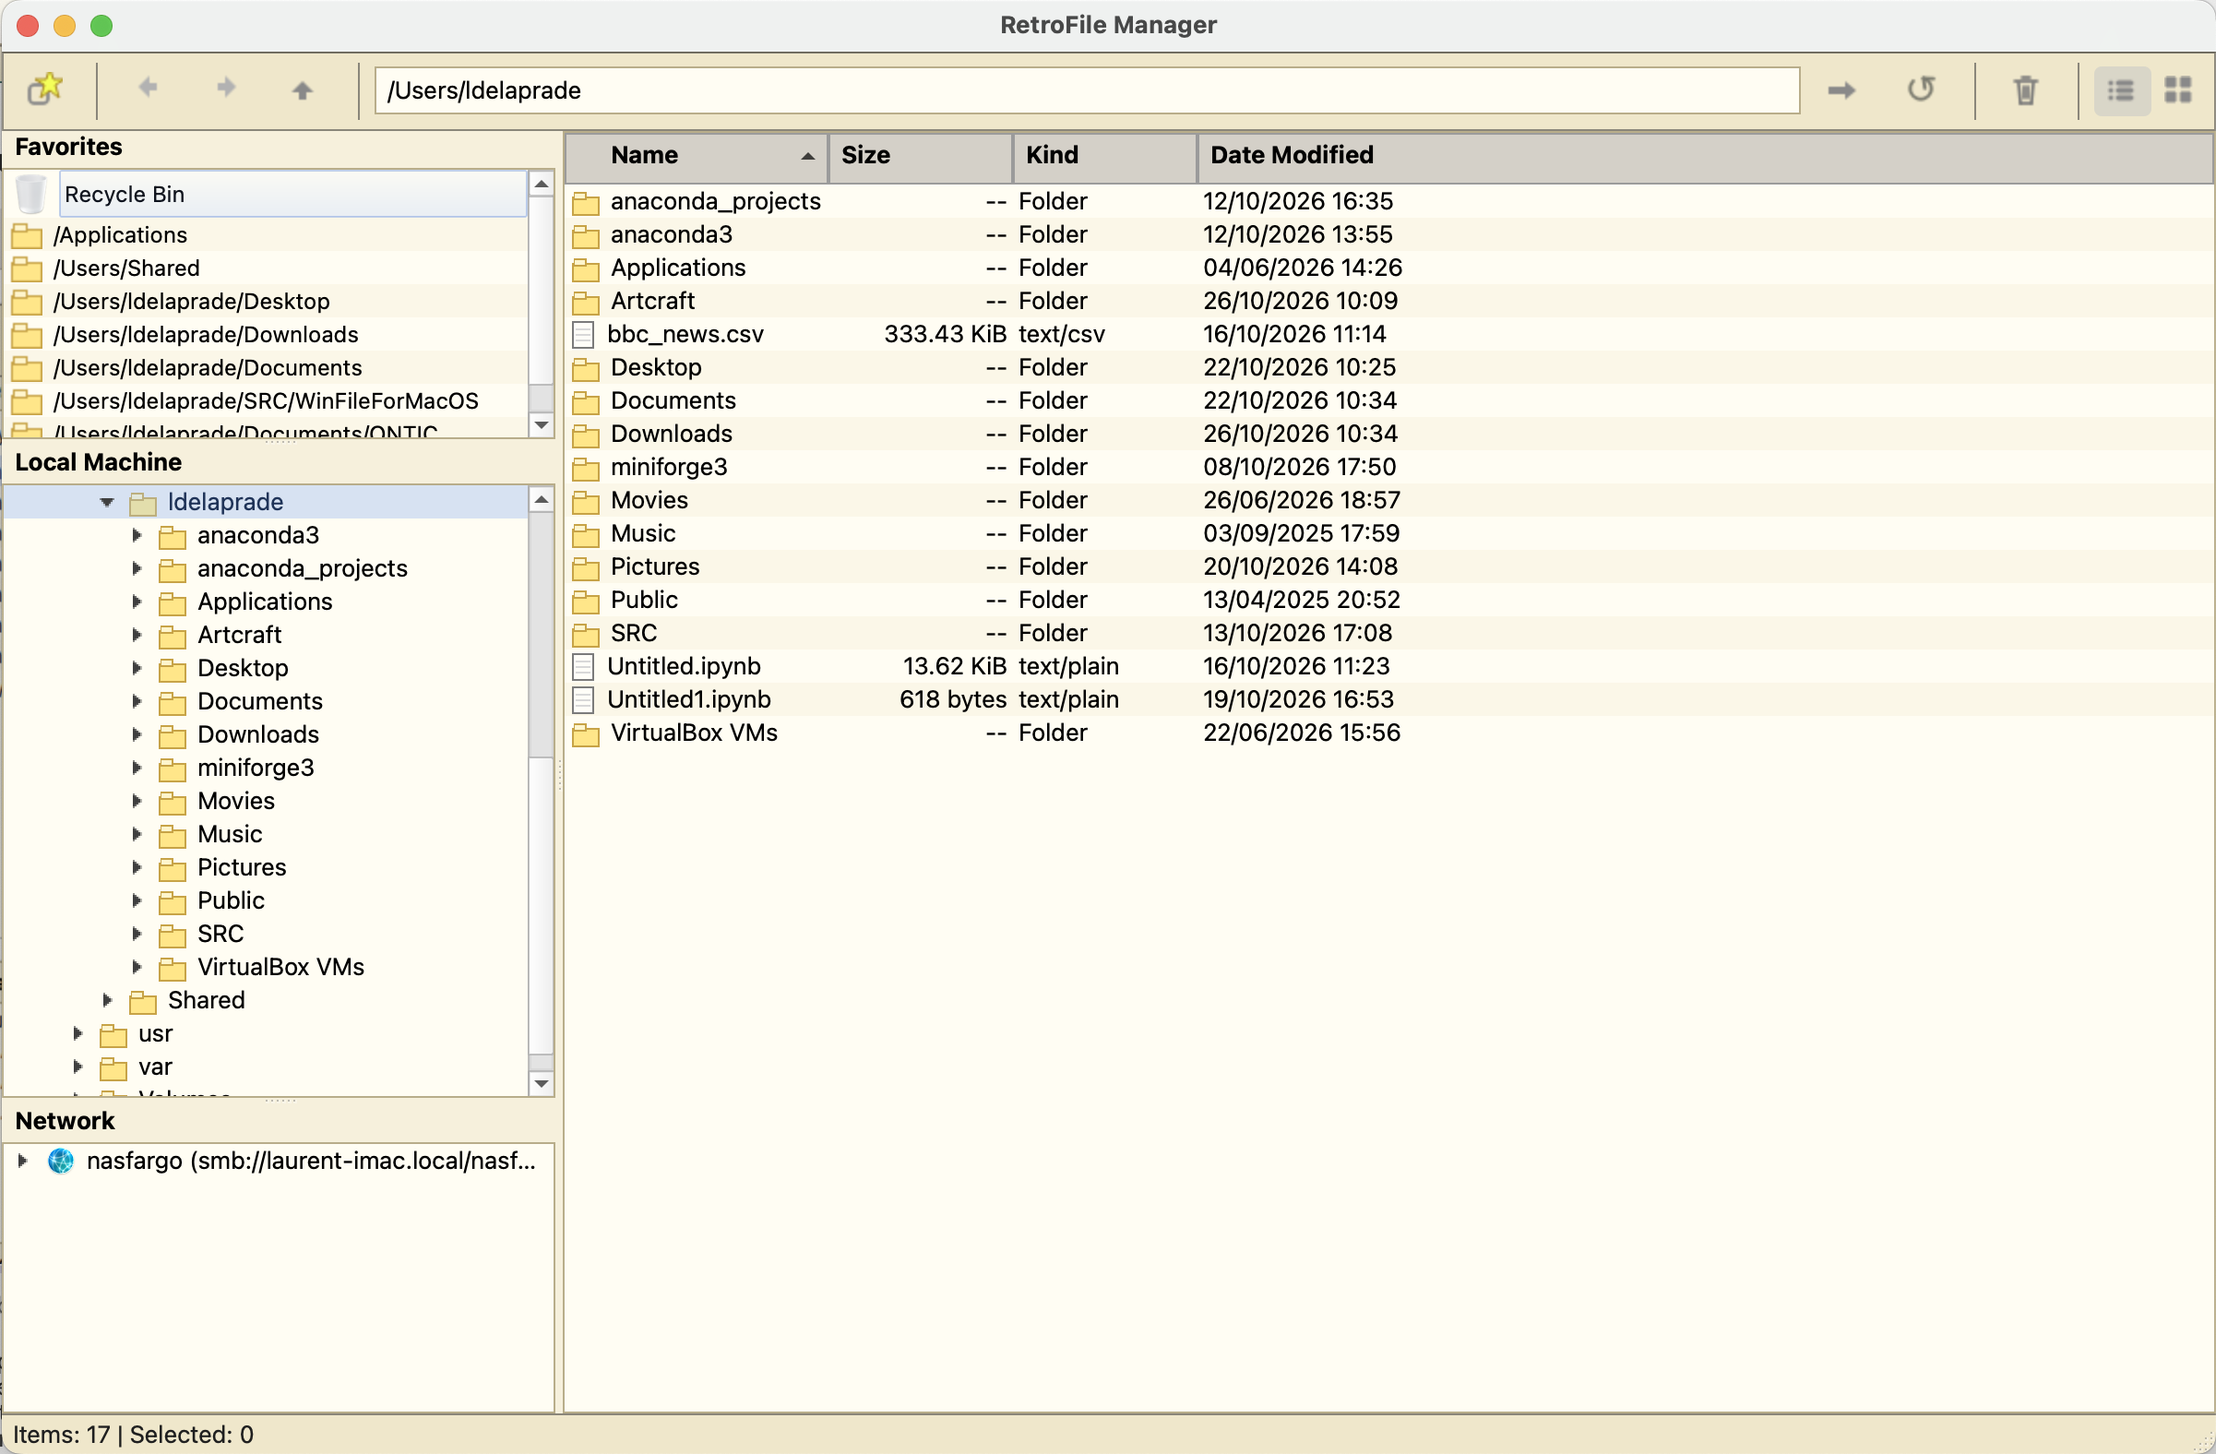
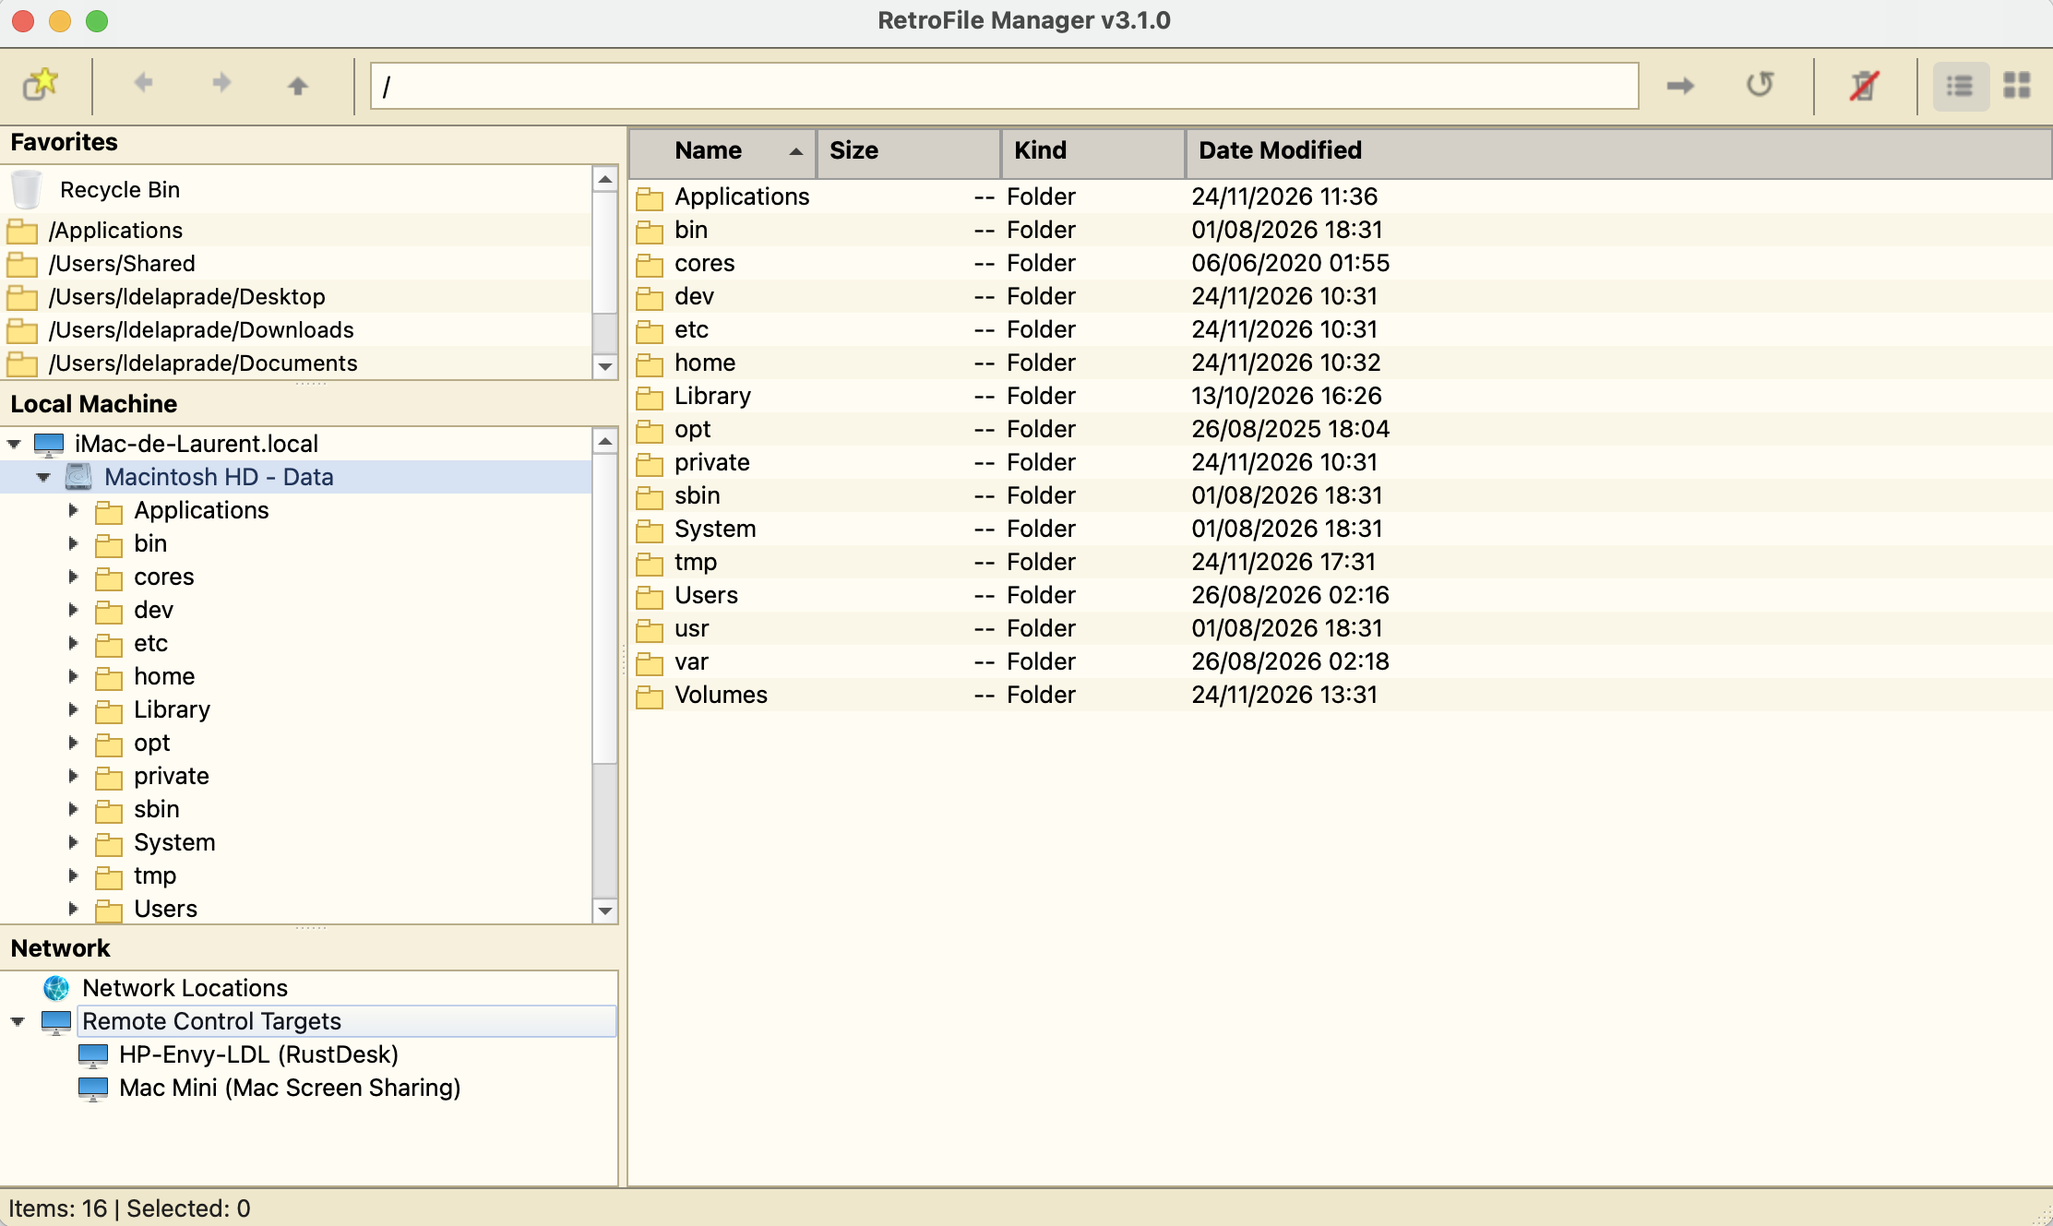
Add Remote Desktop features

Changed region(s): [[0.0, 0.0, 1.0, 1.0], [0.2481, 0.8021, 0.3101, 0.8638], [0.2171, 0.7096, 0.2481, 0.7404]]

diff --git a/src/network_panel.py b/src/network_panel.py
@@ -1,7 +1,9 @@
 from __future__ import annotations
 
+import json
 import os
 import re
+import shutil
 import subprocess
 import threading
 import time
@@ -10,7 +12,7 @@ from urllib.parse import unquote, urlparse
 
 from PySide6.QtCore import QMimeData, QSettings, Qt, QTimer, QUrl, Signal
 from PySide6.QtGui import QKeyEvent
-from PySide6.QtWidgets import QApplication, QMenu, QStyle, QTreeWidget, QTreeWidgetItem, QWidget, QFileIconProvider
+from PySide6.QtWidgets import QApplication, QMenu, QStyle, QTreeWidget, QTreeWidgetItem, QWidget, QFileIconProvider, QMessageBox
 
 from .ui_theme import XPIconProvider
 from .ssh_mount import unmount_ssh_path
@@ -18,6 +20,13 @@ from .ftp_mount import active_windows_ftp_mounts, is_windows_ftp_mount, unmount_
 
 
 _WINDOWS_KNOWN_SHARES_KEY = "network/known_windows_shares"
+_REMOTE_CONTROL_TARGETS_KEY = "network/remote_control_targets"
+_REMOTE_CONTROL_PROTOCOLS = {
+    "screen_sharing": "Mac Screen Sharing",
+    "vnc": "VNC",
+    "rdp": "Microsoft Remote Desktop",
+    "rustdesk": "RustDesk",
+}
 NETWORK_PROBE_TIMEOUT_MS = 3000
 _UNREACHABLE_SECONDS = 30.0
 _unreachable_until: dict[str, float] = {}
@@ -402,6 +411,8 @@ class NetworkPanel(QTreeWidget):
     _IS_SHARE_ROLE = Qt.UserRole + 1
     _LOADED_ROLE = Qt.UserRole + 2
     _SOURCE_URL_ROLE = Qt.UserRole + 3
+    _REMOTE_CONTROL_ROLE = Qt.UserRole + 4
+    _REMOTE_CONTROL_TARGET_ROLE = Qt.UserRole + 5
 
     def __init__(
         self,
@@ -416,6 +427,7 @@ class NetworkPanel(QTreeWidget):
         self._ftp_callback = ftp_callback
         self._settings = QSettings("WinFileXP", "WinFileXP")
         self._known_windows_shares = self._load_known_windows_shares()
+        self._remote_control_targets = self._load_remote_control_targets()
         style = QApplication.style()
         self._network_root_icon = style.standardIcon(QStyle.SP_DriveNetIcon)
         icon_provider = XPIconProvider()
@@ -460,6 +472,10 @@ class NetworkPanel(QTreeWidget):
         if os.name == "nt":
             shares.extend(self._known_windows_share_entries())
 
+        locations_item = QTreeWidgetItem(self, ["Network Locations"])
+        locations_item.setIcon(0, self._network_root_icon)
+        locations_item.setFlags(Qt.ItemIsEnabled)
+
         seen_paths: set[str] = set()
         for display_name, mount_path, source_url in shares:
             normalized = (
@@ -470,7 +486,7 @@ class NetworkPanel(QTreeWidget):
             if normalized in seen_paths:
                 continue
             seen_paths.add(normalized)
-            item = QTreeWidgetItem(self, [f"{display_name} ({source_url})"])
+            item = QTreeWidgetItem(locations_item, [f"{display_name} ({source_url})"])
             item.setData(0, self._PATH_ROLE, mount_path)
             item.setData(0, self._IS_SHARE_ROLE, True)
             item.setData(0, self._LOADED_ROLE, False)
@@ -479,8 +495,33 @@ class NetworkPanel(QTreeWidget):
             item.setFlags(Qt.ItemIsEnabled | Qt.ItemIsSelectable)
             # Shares are only accessed on demand (expand/click), never while listing.
             self._add_placeholder_child(item)
+        if locations_item.childCount():
+            locations_item.setExpanded(True)
+
+        remote_item = QTreeWidgetItem(self, ["Remote Control Targets"])
+        remote_item.setIcon(
+            0,
+            QApplication.style().standardIcon(QStyle.StandardPixmap.SP_ComputerIcon),
+        )
+        remote_item.setFlags(Qt.ItemIsEnabled)
+        for target in self._remote_control_targets:
+            protocol_label = _REMOTE_CONTROL_PROTOCOLS.get(target["protocol"], target["protocol"])
+            item = QTreeWidgetItem(remote_item, [f"{target['name']} ({protocol_label})"])
+            item.setData(0, self._REMOTE_CONTROL_ROLE, True)
+            item.setData(0, self._REMOTE_CONTROL_TARGET_ROLE, target)
+            item.setData(0, self._IS_SHARE_ROLE, False)
+            item.setIcon(
+                0,
+                QApplication.style().standardIcon(QStyle.StandardPixmap.SP_ComputerIcon),
+            )
+            item.setFlags(Qt.ItemIsEnabled | Qt.ItemIsSelectable)
+        remote_item.setExpanded(True)
 
     def _on_item_clicked(self, item: QTreeWidgetItem, _column: int) -> None:
+        target = item.data(0, self._REMOTE_CONTROL_TARGET_ROLE)
+        if isinstance(target, dict):
+            self._launch_remote_control_target(target)
+            return
         path = item.data(0, self._PATH_ROLE)
         if path:
             self.navigate_requested.emit(path)
@@ -565,8 +606,21 @@ class NetworkPanel(QTreeWidget):
 
         if item is None:
             menu.addMenu(add_location_menu)
+            menu.addAction("Add Remote Control Target...", self._add_remote_control_target)
             menu.addAction("Refresh", self.refresh_shares)
         else:
+            target = item.data(0, self._REMOTE_CONTROL_TARGET_ROLE)
+            if isinstance(target, dict):
+                menu.addAction("Remote Control", lambda t=target: self._launch_remote_control_target(t))
+                menu.addAction("Edit Target...", lambda t=target: self._edit_remote_control_target(t))
+                menu.addAction("Remove Target", lambda t=target: self._remove_remote_control_target(t))
+                menu.addSeparator()
+                menu.addMenu(add_location_menu)
+                menu.addAction("Add Remote Control Target...", self._add_remote_control_target)
+                menu.addAction("Refresh", self.refresh_shares)
+                menu.exec(self.viewport().mapToGlobal(pos))
+                return
+
             path = item.data(0, self._PATH_ROLE)
             is_share_root = bool(item.data(0, self._IS_SHARE_ROLE))
             if path:
@@ -582,9 +636,141 @@ class NetworkPanel(QTreeWidget):
                 menu.addAction("Disconnect", lambda i=item: self._on_disconnect(i))
             menu.addSeparator()
             menu.addMenu(add_location_menu)
+            menu.addAction("Add Remote Control Target...", self._add_remote_control_target)
             menu.addAction("Refresh", self.refresh_shares)
 
         menu.exec(self.viewport().mapToGlobal(pos))
+
+    def _load_remote_control_targets(self) -> list[dict[str, str]]:
+        saved = self._settings.value(_REMOTE_CONTROL_TARGETS_KEY, [])
+        if isinstance(saved, str):
+            try:
+                saved = json.loads(saved)
+            except json.JSONDecodeError:
+                saved = []
+        if not isinstance(saved, list):
+            return []
+        targets: list[dict[str, str]] = []
+        seen: set[tuple[str, str, str]] = set()
+        for value in saved:
+            if not isinstance(value, dict):
+                continue
+            target = {
+                "name": str(value.get("name", "")).strip(),
+                "protocol": str(value.get("protocol", "vnc")).strip(),
+                "host": str(value.get("host", "")).strip(),
+                "port": str(value.get("port", "")).strip(),
+                "username": str(value.get("username", "")).strip(),
+            }
+            if not target["name"] or not target["host"]:
+                continue
+            identity = (target["name"].lower(), target["protocol"], target["host"].lower())
+            if identity in seen:
+                continue
+            seen.add(identity)
+            targets.append(target)
+        return targets
+
+    def _save_remote_control_targets(self) -> None:
+        self._settings.setValue(_REMOTE_CONTROL_TARGETS_KEY, json.dumps(self._remote_control_targets))
+
+    def _add_remote_control_target(self) -> None:
+        from .dialogs import RemoteControlTargetDialog
+
+        dialog = RemoteControlTargetDialog(parent=self)
+        if dialog.exec() != dialog.DialogCode.Accepted:
+            return
+        target = dialog.values()
+        self._remote_control_targets.append(target)
+        self._remote_control_targets.sort(key=lambda item: item["name"].lower())
+        self._save_remote_control_targets()
+        self.refresh_shares()
+
+    def _edit_remote_control_target(self, target: dict[str, str]) -> None:
+        from .dialogs import RemoteControlTargetDialog
+
+        dialog = RemoteControlTargetDialog(target, parent=self)
+        if dialog.exec() != dialog.DialogCode.Accepted:
+            return
+        updated = dialog.values()
+        for index, existing in enumerate(self._remote_control_targets):
+            if existing == target:
+                self._remote_control_targets[index] = updated
+                break
+        self._remote_control_targets.sort(key=lambda item: item["name"].lower())
+        self._save_remote_control_targets()
+        self.refresh_shares()
+
+    def _remove_remote_control_target(self, target: dict[str, str]) -> None:
+        answer = QMessageBox.question(
+            self,
+            "Remove Remote Control Target",
+            f"Remove '{target['name']}' from saved remote control targets?",
+            QMessageBox.Yes | QMessageBox.No,
+            QMessageBox.No,
+        )
+        if answer != QMessageBox.Yes:
+            return
+        self._remote_control_targets = [
+            existing for existing in self._remote_control_targets if existing != target
+        ]
+        self._save_remote_control_targets()
+        self.refresh_shares()
+
+    def _launch_remote_control_target(self, target: dict[str, str]) -> None:
+        protocol = target["protocol"]
+        host = target["host"]
+        port = target["port"]
+        username = target["username"]
+        address = f"{host}:{port}" if port else host
+
+        try:
+            if protocol == "screen_sharing" and os.name == "posix" and shutil.which("open"):
+                uri = f"vnc://{address}"
+                subprocess.Popen(["open", "-a", "Screen Sharing", uri])
+                return
+            if protocol == "vnc":
+                for executable in ("vncviewer", "vinagre", "remmina"):
+                    path = shutil.which(executable)
+                    if path:
+                        subprocess.Popen([path, address])
+                        return
+                if os.name == "posix" and shutil.which("open"):
+                    subprocess.Popen(["open", f"vnc://{address}"])
+                    return
+            if protocol == "rdp":
+                if os.name == "nt" and shutil.which("mstsc"):
+                    subprocess.Popen(["mstsc", f"/v:{address}"])
+                    return
+                for executable in ("xfreerdp", "xfreerdp3"):
+                    path = shutil.which(executable)
+                    if path:
+                        args = [path, f"/v:{address}"]
+                        if username:
+                            args.append(f"/u:{username}")
+                        subprocess.Popen(args)
+                        return
+                if os.name == "posix" and shutil.which("open"):
+                    subprocess.Popen(["open", f"rdp://{address}"])
+                    return
+            if protocol == "rustdesk":
+                rustdesk_id = "".join(host.split())
+                rustdesk = shutil.which("rustdesk")
+                if rustdesk:
+                    subprocess.Popen([rustdesk, "--connect", rustdesk_id])
+                    return
+                if os.name == "posix" and shutil.which("open"):
+                    subprocess.Popen(["open", f"rustdesk://connection/new/{rustdesk_id}"])
+                    return
+        except OSError as error:
+            QMessageBox.warning(self, "Remote Control", f"Could not launch {target['name']}: {error}")
+            return
+
+        QMessageBox.information(
+            self,
+            "Remote Control Client Not Found",
+            f"No supported client for '{target['name']}' was found on this system.",
+        )
 
     def _on_disconnect(self, item: QTreeWidgetItem) -> None:
         path = item.data(0, self._PATH_ROLE)

diff --git a/src/dialogs.py b/src/dialogs.py
@@ -994,6 +994,86 @@ class ActionConfirmDialog(QDialog):
         super().keyPressEvent(event)
 
 
+class RemoteControlTargetDialog(QDialog):
+    def __init__(
+        self,
+        target: dict[str, str] | None = None,
+        parent: QMainWindow | None = None,
+    ) -> None:
+        super().__init__(parent)
+        target = target or {}
+        self.setWindowTitle("Edit Remote Control Target" if target else "Add Remote Control Target")
+        self.resize(560, 260)
+        layout = QVBoxLayout(self)
+        form = QFormLayout()
+
+        self.name_edit = QLineEdit(self)
+        self.name_edit.setText(target.get("name", ""))
+        self.name_edit.setPlaceholderText("Office Mac")
+
+        self.protocol_combo = QComboBox(self)
+        protocols = (
+            ("screen_sharing", "Mac Screen Sharing"),
+            ("vnc", "VNC"),
+            ("rdp", "Microsoft Remote Desktop"),
+            ("rustdesk", "RustDesk"),
+        )
+        for protocol_id, label in protocols:
+            self.protocol_combo.addItem(label, protocol_id)
+        protocol_index = self.protocol_combo.findData(target.get("protocol", "screen_sharing"))
+        self.protocol_combo.setCurrentIndex(max(0, protocol_index))
+
+        self.host_edit = QLineEdit(self)
+        self.host_edit.setText(target.get("host", ""))
+        self.host_edit.setPlaceholderText("hostname or IP address")
+
+        self.port_edit = QLineEdit(self)
+        self.port_edit.setText(target.get("port", ""))
+        self.port_edit.setPlaceholderText("Optional")
+
+        self.username_edit = QLineEdit(self)
+        self.username_edit.setText(target.get("username", ""))
+        self.username_edit.setPlaceholderText("Optional")
+
+        form.addRow("Name:", self.name_edit)
+        form.addRow("Protocol:", self.protocol_combo)
+        self.host_label = QLabel("Host:", self)
+        form.addRow(self.host_label, self.host_edit)
+        form.addRow("Port:", self.port_edit)
+        form.addRow("Username:", self.username_edit)
+        layout.addLayout(form)
+
+        buttons = QDialogButtonBox(
+            QDialogButtonBox.StandardButton.Ok | QDialogButtonBox.StandardButton.Cancel,
+            parent=self,
+        )
+        buttons.accepted.connect(self.accept)
+        buttons.rejected.connect(self.reject)
+        layout.addWidget(buttons)
+        self.ok_button = buttons.button(QDialogButtonBox.StandardButton.Ok)
+        self.name_edit.textChanged.connect(self._update_validity)
+        self.host_edit.textChanged.connect(self._update_validity)
+        self.protocol_combo.currentIndexChanged.connect(self._update_host_label)
+        self._update_host_label()
+        self._update_validity()
+
+    def _update_host_label(self) -> None:
+        protocol = str(self.protocol_combo.currentData())
+        self.host_label.setText("RustDesc ID:" if protocol == "rustdesk" else "Host:")
+
+    def _update_validity(self) -> None:
+        self.ok_button.setEnabled(bool(self.name_edit.text().strip() and self.host_edit.text().strip()))
+
+    def values(self) -> dict[str, str]:
+        return {
+            "name": self.name_edit.text().strip(),
+            "protocol": str(self.protocol_combo.currentData()),
+            "host": self.host_edit.text().strip(),
+            "port": self.port_edit.text().strip(),
+            "username": self.username_edit.text().strip(),
+        }
+
+
 class WindowsShareDialog(QDialog):
     def __init__(self, parent: QMainWindow | None = None) -> None:
         super().__init__(parent)

diff --git a/README.md b/README.md
@@ -66,6 +66,7 @@ python -m src.main
 - To browse a network share: right-click the **Network** node in the left panel → *Connect Network Share…* and enter a network path. Use SMB URL on macOS/Linux (e.g. `smb://server/share` or `smb://server/share/folder`) and UNC path on Windows (e.g. `\\server\share` or `\\server\share\folder`). Alternatively, type it directly in the address bar and press Enter. On macOS, login prompts may appear and the share then appears under *Network*.
 - Already-mounted shares (Windows/Samba/NFS/AFP) appear automatically under *Network* when the app starts.
 - Right-click a mounted share under *Network* to **Browse**, **Disconnect**, or connect another share.
+- Right-click the *Network* panel and choose **Add Remote Control Target...** to save a Mac Screen Sharing, VNC, Microsoft Remote Desktop, or RustDesk target. Saved machines appear under **Remote Control Targets** and can be launched, edited, or removed from their context menu.
 - Add a bookmark by dragging a folder from *File System* or *Network* into *Favorites*.
 - Right-click a folder in *File System* or *Network* and choose **Add to Favorites**.
 - On first launch, *Favorites* is pre-populated with Home, Desktop, and Downloads (if they exist).
